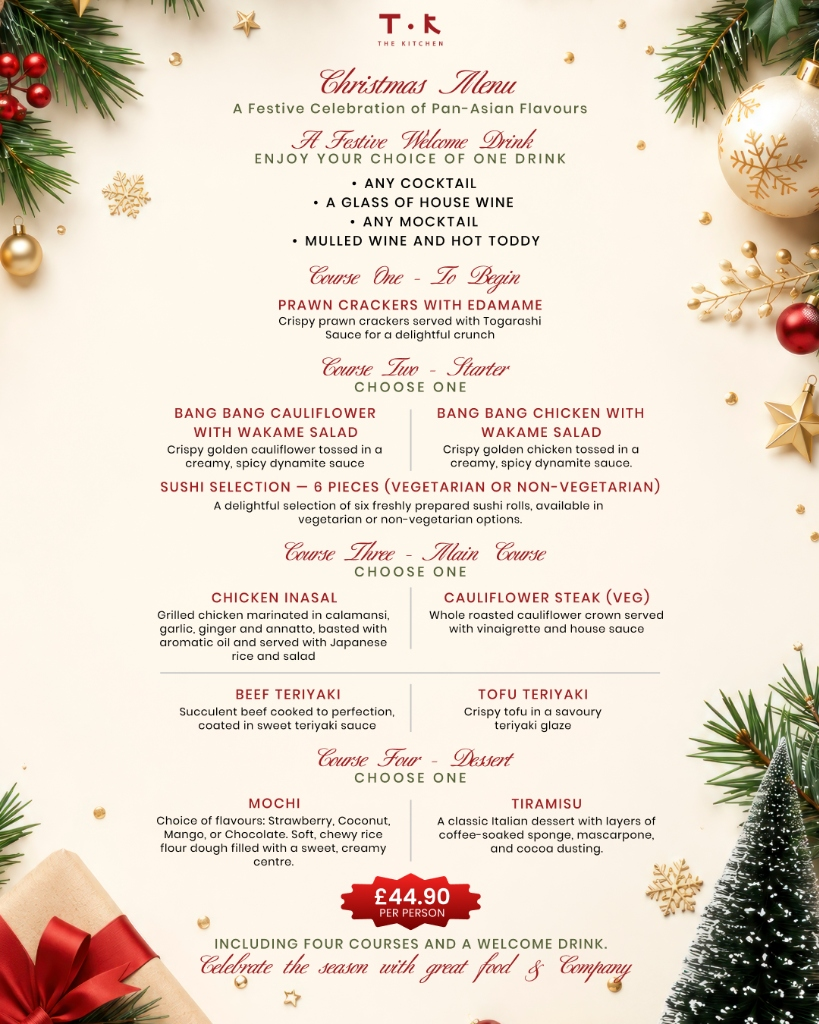
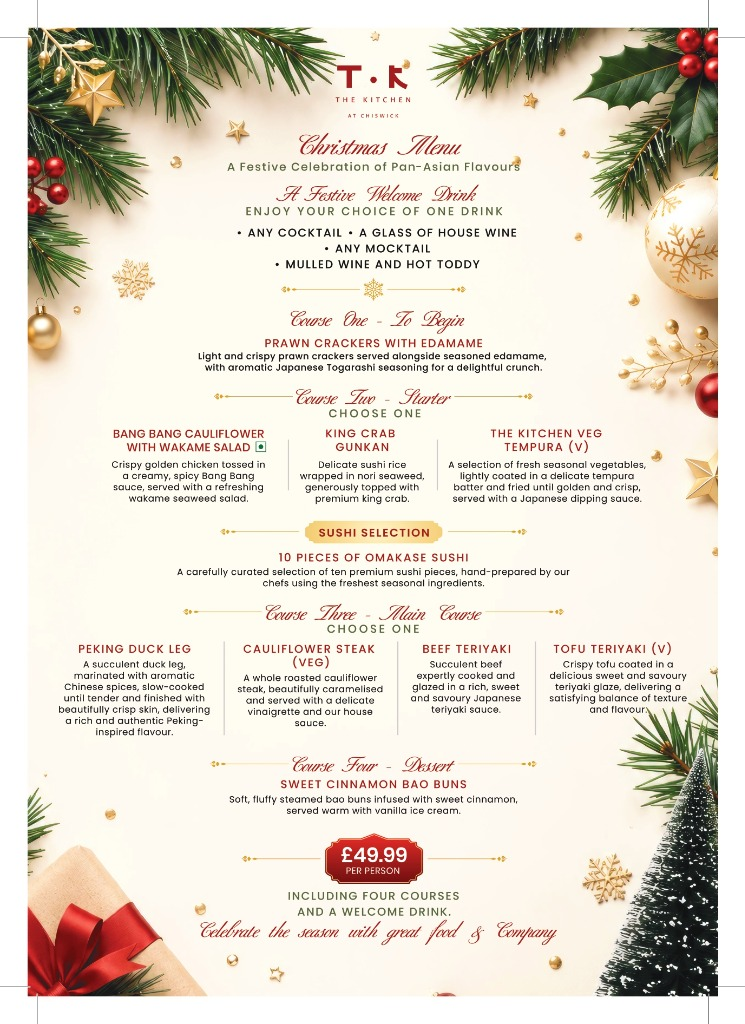
Update Christmas Menu: new items, £49.99 price, 10 pcs omakase, and sweet bao buns dessert

diff --git a/src/container/Menu/SpecialMenu.jsx b/src/container/Menu/SpecialMenu.jsx
@@ -3,7 +3,7 @@ import React, { useState } from "react";
 import { SubHeading } from "../../components";
 import "./SpecialMenu.css";
 
-// Christmas Festive Menu Data (£44.90 Per Person)
+// Christmas Festive Menu Data (£49.99 Per Person)
 const christmasMenuData = {
   welcomeDrink: [
     { name: 'ANY COCKTAIL', description: 'Your choice of handcrafted cocktail' },
@@ -14,52 +14,57 @@ const christmasMenuData = {
   courseOne: [
     {
       name: 'PRAWN CRACKERS WITH EDAMAME',
-      description: 'Crispy prawn crackers served with Togarashi Sauce for a delightful crunch',
+      description: 'Light and crispy prawn crackers served alongside seasoned edamame, with aromatic Japanese Togarashi seasoning for a delightful crunch.',
     },
   ],
-  courseTwo: [
-    {
-      name: 'BANG BANG CAULIFLOWER WITH WAKAME SALAD',
-      description: 'Crispy golden cauliflower tossed in a creamy, spicy dynamite sauce',
-      isVegetarian: true,
+  courseTwo: {
+    starters: [
+      {
+        name: 'BANG BANG CAULIFLOWER WITH WAKAME SALAD',
+        description: 'Crispy golden cauliflower tossed in a creamy, spicy Bang Bang sauce, served with a refreshing wakame seaweed salad.',
+        isVegetarian: true,
+      },
+      {
+        name: 'KING CRAB GUNKAN',
+        description: 'Delicate sushi rice wrapped in nori seaweed, generously topped with premium king crab.',
+      },
+      {
+        name: 'THE KITCHEN VEG TEMPURA',
+        description: 'A selection of fresh seasonal vegetables, lightly coated in a delicate tempura batter and fried until golden and crisp, served with a Japanese dipping sauce.',
+        isVegetarian: true,
+      },
+    ],
+    sushiSelection: {
+      tag: 'SUSHI SELECTION',
+      name: '10 PIECES OF OMAKASE SUSHI',
+      description: 'A carefully curated selection of ten premium sushi pieces, hand-prepared by our chefs using the freshest seasonal ingredients.',
     },
-    {
-      name: 'BANG BANG CHICKEN WITH WAKAME SALAD',
-      description: 'Crispy golden chicken tossed in a creamy, spicy dynamite sauce',
-    },
-    {
-      name: 'SUSHI SELECTION — 6 PIECES',
-      description: 'A delightful selection of six freshly prepared sushi rolls, available in vegetarian or non-vegetarian options',
-    },
-  ],
+  },
   courseThree: [
     {
-      name: 'CHICKEN INASAL',
-      description: 'Grilled chicken marinated in calamansi, garlic, ginger and annatto, basted with aromatic oil and served with Japanese rice and salad',
+      name: 'PEKING DUCK LEG',
+      description: 'A succulent duck leg, marinated with aromatic Chinese spices, slow-cooked until tender and finished with beautifully crisp skin, delivering a rich and authentic Peking-inspired flavour.',
     },
     {
-      name: 'CAULIFLOWER STEAK (VEG)',
-      description: 'Whole roasted cauliflower crown served with vinaigrette and house sauce',
+      name: 'CAULIFLOWER STEAK',
+      description: 'A whole roasted cauliflower steak, beautifully caramelised and served with a delicate vinaigrette and our house sauce.',
       isVegetarian: true,
+      vegLabel: '(VEG)',
     },
     {
       name: 'BEEF TERIYAKI',
-      description: 'Succulent beef cooked to perfection, coated in sweet teriyaki sauce',
+      description: 'Succulent beef expertly cooked and glazed in a rich, sweet and savoury Japanese teriyaki sauce.',
     },
     {
       name: 'TOFU TERIYAKI',
-      description: 'Crispy tofu in a savoury teriyaki glaze',
+      description: 'Crispy tofu coated in a delicious sweet and savoury teriyaki glaze, delivering a satisfying balance of texture and flavour.',
       isVegetarian: true,
     },
   ],
   courseFour: [
     {
-      name: 'MOCHI',
-      description: 'Choice of flavours: Strawberry, Coconut, Mango, or Chocolate. Soft, chewy rice flour dough filled with a sweet, creamy centre',
-    },
-    {
-      name: 'TIRAMISU',
-      description: 'A classic Italian dessert with layers of coffee-soaked sponge, mascarpone, and cocoa dusting',
+      name: 'SWEET CINNAMON BAO BUNS',
+      description: 'Soft, fluffy steamed bao buns infused with sweet cinnamon, served warm with vanilla ice cream.',
     },
   ],
 };
@@ -543,7 +548,7 @@ const SpecialMenu = () => {
         <p className="app__specialMenu-menu_heading">CHRISTMAS MENU</p>
         <div className="christmas-menu-price-wrapper">
           <div className="christmas-menu-price-badge">
-            <span className="christmas-menu-price-amount">£44.90</span>
+            <span className="christmas-menu-price-amount">£49.99</span>
             <span className="christmas-menu-price-label">PER PERSON</span>
           </div>
         </div>
@@ -590,28 +595,30 @@ const SpecialMenu = () => {
           <p className="christmas-section-title">Course Two — Starter</p>
           <p className="christmas-section-desc">(Choose one)</p>
         </div>
-        <div className="christmas-grid-2col">
-          {christmasMenuData.courseTwo.slice(0, 2).map((item, index) => (
+        <div className="christmas-grid-3col">
+          {christmasMenuData.courseTwo.starters.map((item, index) => (
             <div key={index} className="christmas-item-card">
               <p className="christmas-item-name">
                 {item.name}
-                {item.isVegetarian && <span className="christmas-item-veg">(V)</span>}
+                {item.isVegetarian && <span className="christmas-item-veg">{item.vegLabel || '(V)'}</span>}
               </p>
               <p className="christmas-item-desc">{item.description}</p>
             </div>
           ))}
-          {/* Third item (Sushi Selection) centered across columns */}
-          {christmasMenuData.courseTwo.slice(2).map((item, index) => (
-            <div key={index} className="christmas-grid-full">
-              <div className="christmas-item-card">
-                <p className="christmas-item-name">
-                  {item.name}
-                  {item.isVegetarian && <span className="christmas-item-veg">(V)</span>}
-                </p>
-                <p className="christmas-item-desc">{item.description}</p>
-              </div>
-            </div>
-          ))}
+        </div>
+        {/* Sushi Selection Highlight Box */}
+        <div className="christmas-sushi-box">
+          <span className="christmas-sushi-badge">
+            {christmasMenuData.courseTwo.sushiSelection.tag}
+          </span>
+          <div className="christmas-item-card">
+            <p className="christmas-item-name">
+              {christmasMenuData.courseTwo.sushiSelection.name}
+            </p>
+            <p className="christmas-item-desc">
+              {christmasMenuData.courseTwo.sushiSelection.description}
+            </p>
+          </div>
         </div>
       </div>
 
@@ -626,7 +633,7 @@ const SpecialMenu = () => {
             <div key={index} className="christmas-item-card">
               <p className="christmas-item-name">
                 {item.name}
-                {item.isVegetarian && <span className="christmas-item-veg">(V)</span>}
+                {item.isVegetarian && <span className="christmas-item-veg">{item.vegLabel || '(V)'}</span>}
               </p>
               <p className="christmas-item-desc">{item.description}</p>
             </div>
@@ -640,7 +647,7 @@ const SpecialMenu = () => {
           <p className="christmas-section-title">Course Four — Dessert</p>
           <p className="christmas-section-desc">(Choose one)</p>
         </div>
-        <div className="christmas-grid-2col">
+        <div className="christmas-grid-1col">
           {christmasMenuData.courseFour.map((item, index) => (
             <div key={index} className="christmas-item-card">
               <p className="christmas-item-name">{item.name}</p>
@@ -652,7 +659,8 @@ const SpecialMenu = () => {
 
       {/* Footer Quote */}
       <div className="christmas-menu-footer">
-        <p>&ldquo;Celebrate the season with great food &amp; company&rdquo;</p>
+        <p className="christmas-menu-footer-badge">INCLUDING FOUR COURSES AND A WELCOME DRINK.</p>
+        <p className="christmas-menu-footer-quote">&ldquo;Celebrate the season with great food &amp; company&rdquo;</p>
       </div>
     </div>
   );

diff --git a/src/container/Menu/SpecialMenu.css b/src/container/Menu/SpecialMenu.css
@@ -236,6 +236,15 @@
   box-sizing: border-box;
 }
 
+/* 3-column balanced grid for starters */
+.christmas-grid-3col {
+  display: grid;
+  grid-template-columns: repeat(3, 1fr);
+  gap: 2rem 2.5rem;
+  width: 100%;
+  box-sizing: border-box;
+}
+
 /* Single item centered */
 .christmas-grid-1col {
   display: flex;
@@ -258,6 +267,35 @@
 .christmas-grid-full .christmas-item-card {
   max-width: 600px;
   text-align: center;
+}
+
+/* Sushi Selection Box */
+.christmas-sushi-box {
+  margin-top: 2.5rem;
+  padding: 1.8rem 1rem 1.2rem;
+  text-align: center;
+  border-top: 1px dashed rgba(220, 202, 135, 0.35);
+  border-bottom: 1px dashed rgba(220, 202, 135, 0.35);
+}
+
+.christmas-sushi-badge {
+  display: inline-block;
+  font-family: var(--font-alt);
+  color: #DCCA87;
+  font-size: 13px;
+  font-weight: 700;
+  letter-spacing: 3px;
+  text-transform: uppercase;
+  padding: 5px 22px;
+  border: 1px solid rgba(220, 202, 135, 0.6);
+  border-radius: 20px;
+  margin-bottom: 1rem;
+  background: rgba(220, 202, 135, 0.08);
+}
+
+.christmas-sushi-box .christmas-item-card {
+  max-width: 680px;
+  margin: 0 auto;
 }
 
 /* Individual Item Card */
@@ -317,16 +355,34 @@
   margin-bottom: 2rem;
 }
 
-.christmas-menu-footer p {
+.christmas-menu-footer-badge {
   font-family: var(--font-alt);
+  color: #DCCA87;
+  font-size: 13px;
+  font-weight: 700;
+  letter-spacing: 2px;
+  text-transform: uppercase;
+  margin-bottom: 0.8rem;
+  text-align: center;
+}
+
+.christmas-menu-footer-quote {
+  font-family: var(--font-base);
   color: var(--color-grey);
-  font-size: 15px;
+  font-size: 20px;
   font-style: italic;
   letter-spacing: 0.5px;
   text-align: center;
 }
 
 /* Tablet & Mobile Breakpoints */
+@media screen and (max-width: 850px) {
+  .christmas-grid-3col {
+    grid-template-columns: 1fr;
+    gap: 1.5rem 0;
+  }
+}
+
 @media screen and (max-width: 768px) {
   .christmas-menu-container {
     padding: 0 0.5rem;
